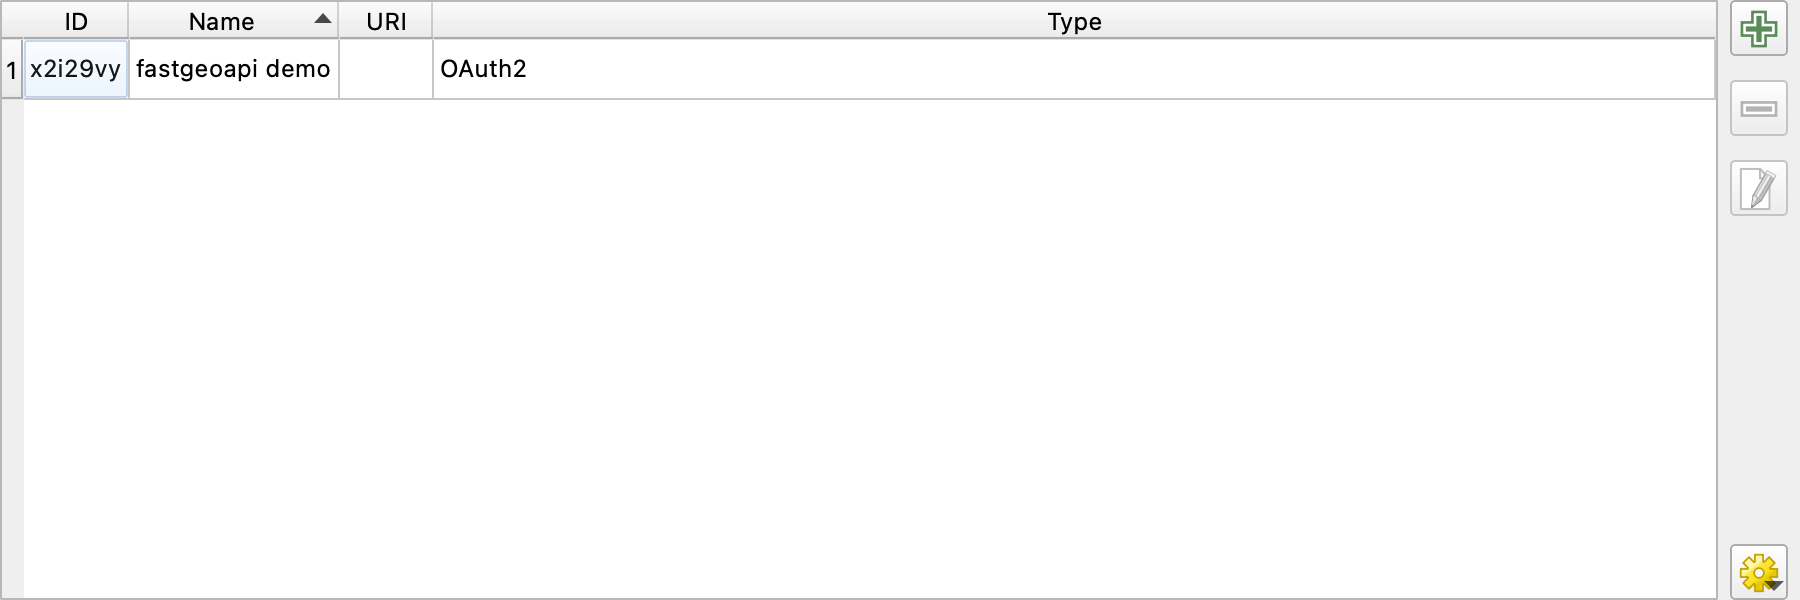
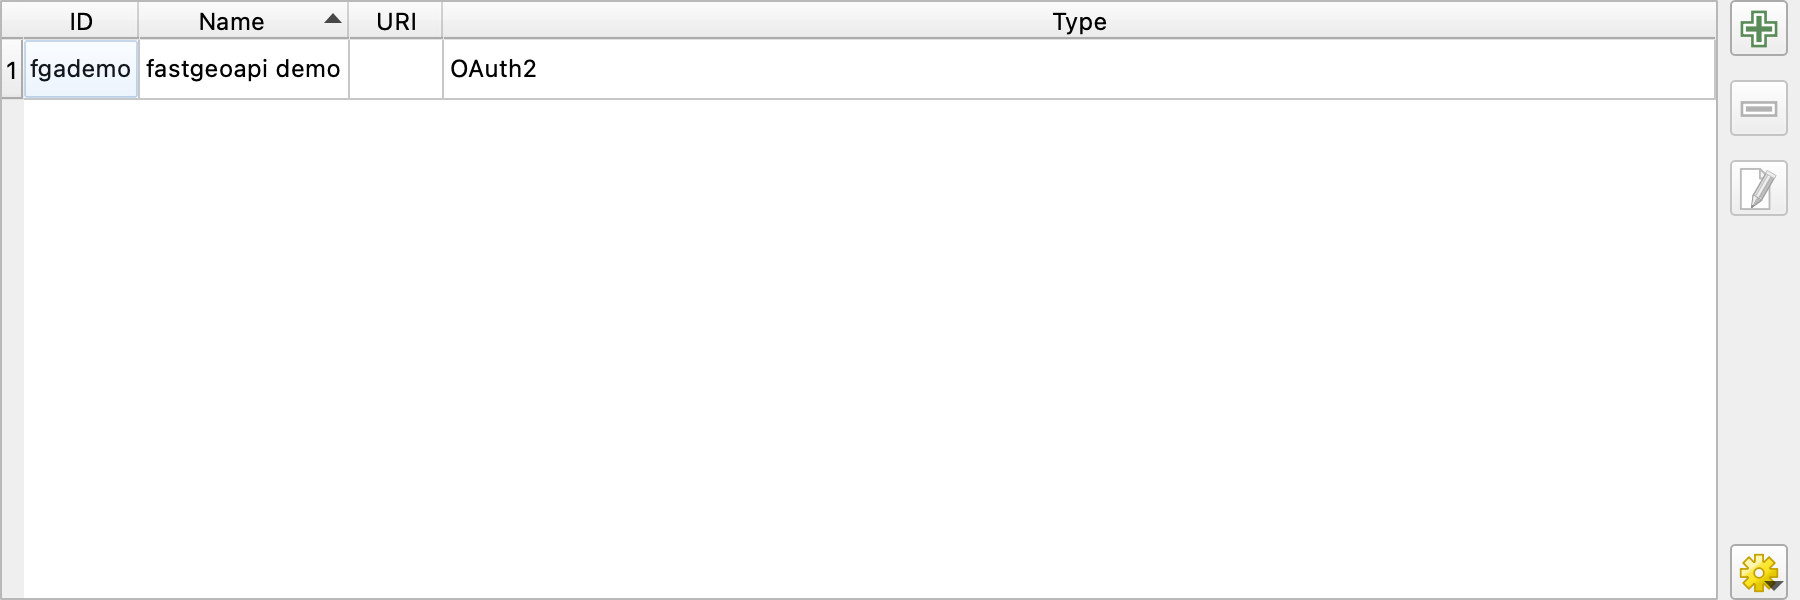
docs(qgis): a throwaway store for the screenshot tool

diff --git a/scripts/qgis_tutorial_screenshots.py b/scripts/qgis_tutorial_screenshots.py
@@ -30,7 +30,9 @@ from __future__ import annotations
 
 import json
 import os
+import secrets
 import sys
+import tempfile
 import time
 from pathlib import Path
 
@@ -93,6 +95,9 @@ def oauth2_config(client_id: str, client_secret: str) -> dict:
 def store(am, config: dict) -> str:
     """Save the configuration in QGIS's authentication store and return its id."""
     cfg = QgsAuthMethodConfig("OAuth2")
+    # A fixed id keeps the authentication list screenshot identical from
+    # one run to the next; QGIS would otherwise draw a random one.
+    cfg.setId("fgademo")
     cfg.setName(config["name"])
     cfg.setConfig("oauth2config", json.dumps(config))
     ok, _ = am.storeAuthenticationConfig(cfg)
@@ -226,10 +231,14 @@ def shot_map(authcfg: str) -> None:
 def main() -> None:
     """Boot QGIS headless, store the configuration, and write the four images."""
     OUT.mkdir(parents=True, exist_ok=True)
+    # A throwaway authentication store: never the user's own, and locked
+    # with a password nobody knows. QGIS reads the directory from the
+    # environment before it is initialised.
+    os.environ.setdefault("QGIS_AUTH_DB_DIR_PATH", tempfile.mkdtemp(prefix="qgis-shots-"))
     app = QgsApplication([], True)
     app.initQgis()
     am = app.authManager()
-    if not am.setMasterPassword("screenshots", True):
+    if not am.setMasterPassword(secrets.token_urlsafe(24), True):
         sys.exit("the authentication store could not be opened")
     # The forms show placeholders; the map needs the real demo client.
     client_id = os.environ.get("FASTGEOAPI_DEMO_CLIENT_ID")
